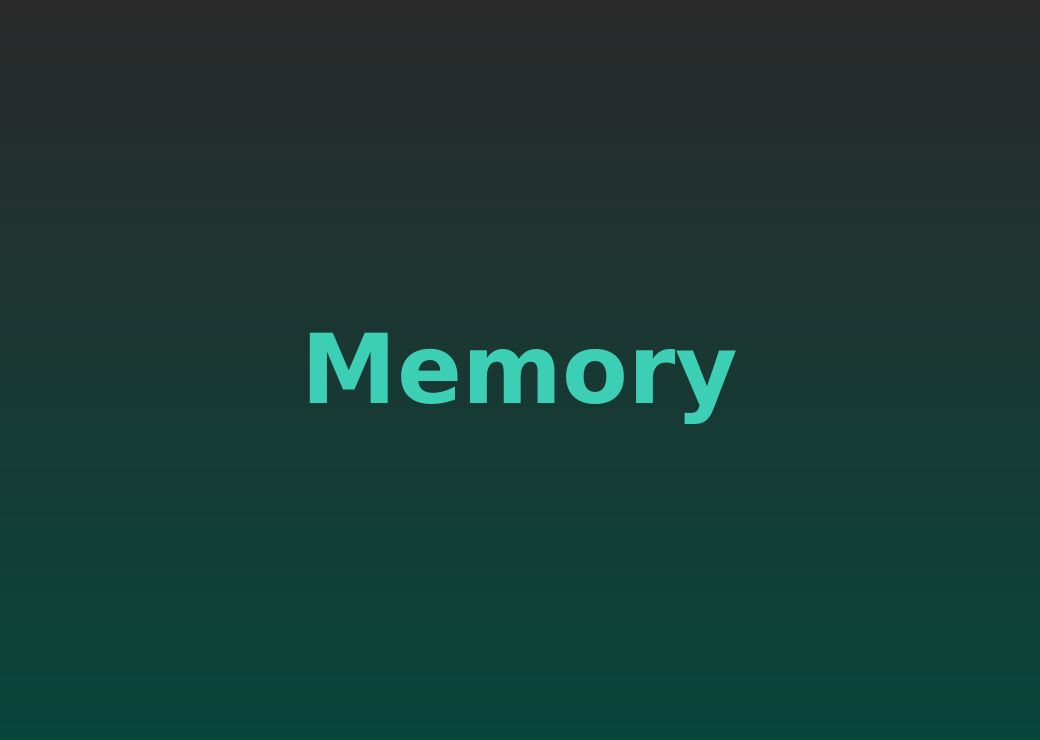
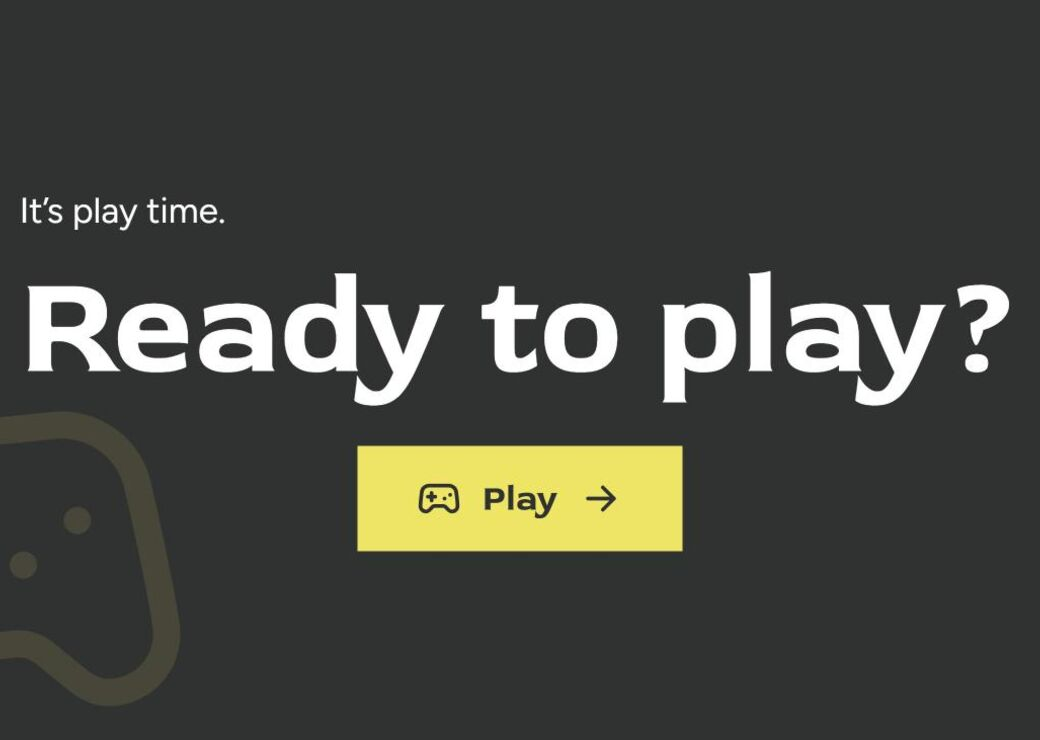
feat: add portfolio application components, styles, services, and core configuration files

diff --git a/src/app/core/data/portfolio.data.ts b/src/app/core/data/portfolio.data.ts
@@ -9,19 +9,20 @@ const TECH = {
   javascript: { name: 'JavaScript', icon: `${ICONS}/tech-javascript.svg` },
   typescript: { name: 'TypeScript', icon: `${ICONS}/tech-typescript.svg` },
   firebase: { name: 'Firebase', icon: `${ICONS}/tech-firebase.svg` },
+  angular: { name: 'Angular', icon: `${ICONS}/tech-angular.svg` },
 } satisfies Record<string, Technology>;
 
 const LIVE_BASE_URL = 'https://christiannoack.developerakademie.net';
 
 export const PROJECTS: Project[] = [
   {
-    id: 'join',
-    title: 'Join',
-    descriptionKey: 'projects.items.join',
-    technologies: [TECH.html, TECH.scss, TECH.javascript, TECH.firebase],
-    githubUrl: 'https://github.com/ChrisNo86/join-app',
-    liveUrl: `${LIVE_BASE_URL}/join`,
-    image: 'assets/img/project-join.jpg',
+    id: 'poll-app',
+    title: 'Poll App',
+    descriptionKey: 'projects.items.pollApp',
+    technologies: [TECH.angular, TECH.typescript, TECH.firebase, TECH.scss],
+    githubUrl: 'https://github.com/ChrisNo86',
+    liveUrl: `${LIVE_BASE_URL}/poll-app/#/`,
+    image: 'assets/img/project-poll-app.jpg',
   },
   {
     id: 'el-pollo-loco',
@@ -29,7 +30,7 @@ export const PROJECTS: Project[] = [
     descriptionKey: 'projects.items.elPolloLoco',
     technologies: [TECH.html, TECH.scss, TECH.javascript],
     githubUrl: 'https://github.com/ChrisNo86/el-pollo-loco',
-    liveUrl: `${LIVE_BASE_URL}/el-pollo-loco`,
+    liveUrl: `${LIVE_BASE_URL}/el-pollo-loco/index.html`,
     image: 'assets/img/project-el-pollo-loco.jpg',
   },
   {
@@ -38,7 +39,7 @@ export const PROJECTS: Project[] = [
     descriptionKey: 'projects.items.memory',
     technologies: [TECH.typescript, TECH.html, TECH.css],
     githubUrl: 'https://github.com/ChrisNo86/memory',
-    liveUrl: `${LIVE_BASE_URL}/memory`,
+    liveUrl: `${LIVE_BASE_URL}/memory/index.html`,
     image: 'assets/img/project-memory.jpg',
   },
 ];

diff --git a/src/app/features/home/sections/contact/contact.ts b/src/app/features/home/sections/contact/contact.ts
@@ -18,7 +18,6 @@ type ContactField = TextField | 'privacy';
 const EMAIL_PATTERN = /^[^\s@]+@[^\s@]+\.[^\s@]{2,}$/;
 const FEEDBACK_DURATION_MS = 5000;
 
-/** Like Validators.required, but also rejects input that only contains spaces. */
 function notBlank(control: AbstractControl<string>): ValidationErrors | null {
   return control.value.trim() ? null : { required: true };
 }
@@ -41,19 +40,16 @@ export class Contact {
 
   protected readonly status = signal<SendStatus>('idle');
 
-  /** Errors are only shown after the field was left once (touched on blur). */
   protected showError(field: ContactField): boolean {
     const control = this.form.controls[field];
     return control.invalid && control.touched;
   }
 
-  /** Empty required field after blur → the placeholder itself turns into the error message. */
   protected isMissing(field: TextField): boolean {
     const control = this.form.controls[field];
     return control.touched && control.value.trim() === '';
   }
 
-  /** Invalid but not empty (e.g. malformed email) → separate hint below the input. */
   protected showHint(field: TextField): boolean {
     return this.showError(field) && !this.isMissing(field);
   }

diff --git a/src/app/features/home/sections/testimonials/testimonials.ts b/src/app/features/home/sections/testimonials/testimonials.ts
@@ -6,12 +6,10 @@ import { Icon } from '../../../../shared/components/icon/icon';
 
 interface Slide {
   testimonial: Testimonial;
-  /** Position relative to the centre card (… -1, 0, 1 …) including the running slide offset. */
   position: number;
   slot: number;
 }
 
-/** Cards rendered on each side of the centre card (one is hidden for the slide-in). */
 const SIDE_SLOTS = 2;
 const SLIDE_DURATION_MS = 450;
 
@@ -24,7 +22,6 @@ const SLIDE_DURATION_MS = 450;
 export class Testimonials {
   protected readonly testimonials = translatedList<Testimonial>('testimonials.items');
   protected readonly activeIndex = signal(0);
-  /** -1 / +1 while a slide animation runs, 0 otherwise. */
   private readonly shift = signal(0);
   protected readonly animate = signal(true);
   private sliding = false;
@@ -53,7 +50,6 @@ export class Testimonials {
     this.activeIndex.set(this.wrap(index, this.testimonials().length));
   }
 
-  /** Moves the track, then silently re-centres it on the new active card. */
   private slide(direction: 1 | -1): void {
     if (this.sliding || this.testimonials().length === 0) return;
     this.sliding = true;

diff --git a/src/app/shared/components/icon/icon.ts b/src/app/shared/components/icon/icon.ts
@@ -1,9 +1,5 @@
 import { Component, computed, input } from '@angular/core';
 
-/**
- * Monochrome SVG icon rendered via CSS mask, so it inherits `color`
- * and can change color on hover like text.
- */
 @Component({
   selector: 'app-icon',
   template: '',
@@ -26,15 +22,9 @@ import { Component, computed, input } from '@angular/core';
   `,
 })
 export class Icon {
-  /** File name in assets/icons without extension … */
   readonly name = input<string>();
-  /** … or a full path to an SVG file. */
   readonly src = input<string>();
   readonly size = input(24);
-  /**
-   * 'alpha' (default) for single-colour icons; 'luminance' for icons that contain
-   * dark cut-outs (e.g. the "TS" letters), so the dark parts stay transparent.
-   */
   readonly maskMode = input<'alpha' | 'luminance'>('alpha');
 
   protected readonly url = computed(() => `url('${this.src() ?? `assets/icons/${this.name()}.svg`}')`);

diff --git a/src/styles.scss b/src/styles.scss
@@ -111,8 +111,6 @@ section[id] {
   }
 }
 
-/* ---------- Buttons ---------- */
-
 .btn {
   display: inline-flex;
   align-items: center;
@@ -144,7 +142,6 @@ section[id] {
   }
 }
 
-/* Prototype hover: the label scrolls out to the left and re-enters from the right. */
 .btn__label {
   display: inline-block;
 }
@@ -169,9 +166,6 @@ section[id] {
   }
 }
 
-/* ---------- Shared hover effects ---------- */
-
-/* Small accent dot; position it per use case via ::after (top/left/right/bottom). */
 .has-hover-dot {
   position: relative;
 
@@ -192,7 +186,6 @@ section[id] {
   }
 }
 
-/* Diagonal accent stripes behind images, revealed on hover. */
 .stripes {
   position: absolute;
   inset: 0;

diff --git a/src/app/features/home/sections/projects/projects.ts b/src/app/features/home/sections/projects/projects.ts
@@ -5,7 +5,6 @@ import { PROJECTS } from '../../../../core/data/portfolio.data';
 import { Icon } from '../../../../shared/components/icon/icon';
 import { ProjectDialog } from '../project-dialog/project-dialog';
 
-/** Vertical offset of the hover preview per list row (from the prototype). */
 const PREVIEW_START_OFFSET = -10;
 const PREVIEW_STEP = 77;
 
@@ -26,7 +25,6 @@ export class Projects {
     return index === null ? null : { project: this.projects[index], number: index + 1 };
   });
 
-  /** Keeps the last preview visible while it fades out. */
   private readonly lastHovered = signal(0);
   protected readonly preview = computed(() => {
     const index = this.lastHovered();

diff --git a/src/app/core/config/site.config.ts b/src/app/core/config/site.config.ts
@@ -1,17 +1,9 @@
-/**
- * Central place for personal data and external links.
- * Personal data and external links used across the site.
- */
 export const SITE_CONFIG = {
   ownerName: 'Chris Noack',
-  // Public contact e-mail address (hero, footer, legal pages)
   email: 'chris86noack@gmail.com',
   githubUrl: 'https://github.com/ChrisNo86',
-  // LinkedIn profile URL. Empty = all LinkedIn links are hidden.
   linkedinUrl: '',
-  // Endpoint of the PHP mailer that is uploaded together with the build.
   mailEndpoint: 'sendMail.php',
-  // Postal address for the legal notice (required by § 5 DDG)
   address: {
     street: 'Eggestr. 4a',
     city: '32758 Detmold',

diff --git a/src/app/features/home/home-page.ts b/src/app/features/home/home-page.ts
@@ -10,12 +10,6 @@ import { Projects } from './sections/projects/projects';
 import { Testimonials } from './sections/testimonials/testimonials';
 import { Contact } from './sections/contact/contact';
 
-/**
- * Above-the-fold content (hero, about) is part of the home chunk.
- * All following sections are split into their own lazy chunks and loaded
- * as soon as the browser is idle, so anchor links (#skills, #projects,
- * #contact) still work right after the first render.
- */
 @Component({
   selector: 'app-home-page',
   imports: [Hero, About, Skills, Projects, Testimonials, Contact],

diff --git a/src/app/core/models/portfolio.models.ts b/src/app/core/models/portfolio.models.ts
@@ -8,7 +8,6 @@ export interface Technology {
 export interface Project {
   id: string;
   title: string;
-  /** i18n key of the project description */
   descriptionKey: string;
   technologies: Technology[];
   githubUrl: string;
@@ -17,16 +16,13 @@ export interface Project {
 }
 
 export interface SkillHint {
-  /** i18n key of the tooltip text */
   textKey: string;
   technologies: Technology[];
 }
 
 export interface Skill {
-  /** i18n key of the label */
   labelKey: string;
   icon: string;
-  /** Optional tooltip shown on hover */
   hint?: SkillHint;
 }
 

diff --git a/src/app/core/utils/scroll-to-fragment.ts b/src/app/core/utils/scroll-to-fragment.ts
@@ -1,13 +1,7 @@
 const MAX_WAIT_MS = 3000;
 
-/** Marker class of the placeholders rendered while deferred sections load. */
 const PLACEHOLDER_SELECTOR = '.section-placeholder';
 
-/**
- * Scrolls to the element with the given id. Waits until it exists and all
- * deferred sections have replaced their placeholders (otherwise the layout
- * would still shift), because the router tries to scroll before that.
- */
 export function scrollToFragmentWhenAvailable(document: Document, fragment: string): void {
   const startedAt = performance.now();
 

diff --git a/src/app/features/home/sections/contact/contact.scss b/src/app/features/home/sections/contact/contact.scss
@@ -36,8 +36,6 @@
   font-weight: 700;
 }
 
-/* ---------- Form ---------- */
-
 .form {
   position: relative;
   display: flex;
@@ -93,7 +91,6 @@
     color: var(--color-error) !important;
   }
 
-  // Keep the dark design when the browser autofills the fields (WebKit/Blink).
   &:-webkit-autofill,
   &:-webkit-autofill:hover,
   &:-webkit-autofill:focus {
@@ -110,7 +107,6 @@
   resize: none;
 }
 
-/* Error messages are absolutely positioned → no layout shift. */
 .form__error {
   position: absolute;
   left: 32px;

diff --git a/src/app/core/i18n/translated-list.ts b/src/app/core/i18n/translated-list.ts
@@ -3,10 +3,6 @@ import { toSignal } from '@angular/core/rxjs-interop';
 import { TranslateService } from '@ngx-translate/core';
 import { map } from 'rxjs';
 
-/**
- * Reactive access to an array stored in the translation files.
- * Must be called in an injection context (field initializer).
- */
 export function translatedList<T>(key: string): Signal<T[]> {
   const translate = inject(TranslateService);
   return toSignal(
